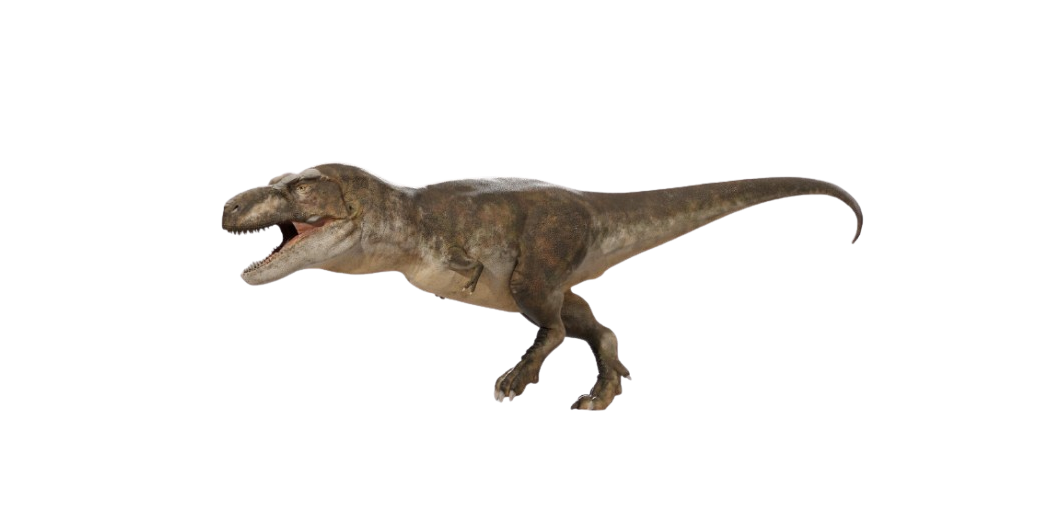
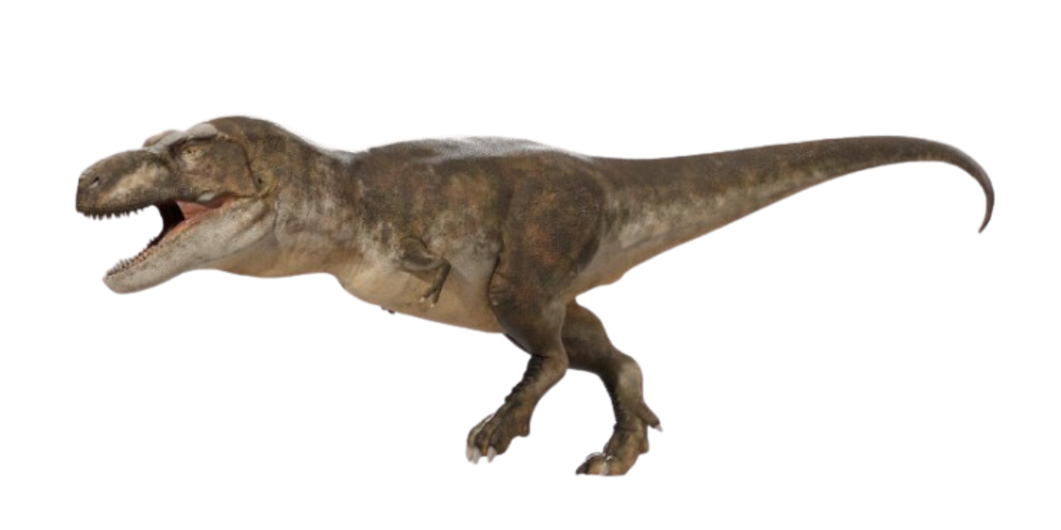
Updated gligching and text sizes

Changed region(s): [[0.0622, 0.2113, 0.9642, 0.9057], [0.8087, 0.3925, 0.8398, 0.4226]]

diff --git a/CLAUDE.md b/CLAUDE.md
@@ -1,0 +1,130 @@
+# CLAUDE.md
+
+This file provides guidance to Claude Code (claude.ai/code) when working with code in this repository.
+
+## What this is
+
+An interactive educational visualization ("UniversalZoom" / LifeZoom) that zooms continuously across ~17 orders of magnitude, from a hydrogen atom (~1e-10 m) to Earth (~1.3e7 m). Not a game — no player, no win state. Scroll wheel is the only input.
+
+`design_note.md` is the authoritative design document: it derives the zoom math, justifies the architecture, and lists the tuning constants. **Read it before changing any scaling/visibility logic.**
+
+## Commands
+
+Godot 4.5. No test suite, no CI, no build scripts. Godot is **not on PATH**, but a matching portable binary ships two levels up in the Gamedev folder (verified `4.5.stable.official`):
+
+```bash
+GODOT="/c/Users/seanm/Nextcloud2/Gamedev/Godot_v4.5-stable_win64.exe"
+
+# Run the project
+"$GODOT" --path .
+
+# Open in editor
+"$GODOT" -e --path .
+
+# Headless script-error check (fast sanity pass without launching a window)
+"$GODOT" --headless --path . --quit
+
+# Export (presets defined in export_presets.cfg)
+"$GODOT" --headless --path . --export-release "Web" ../export/index.html
+"$GODOT" --headless --path . --export-release "Windows Desktop" ../UniversalZoom.exe
+```
+
+A `Godot_v4.7-stable_win64.exe` sits alongside it — don't use it, the project declares `config/features=PackedStringArray("4.5", "Forward Plus")`.
+
+Both export targets write **outside** the project dir (`../export/`, `../UniversalZoom.exe`). Web export has `variant/thread_support=false`. A previous web build is already scattered across `Gamedev/GodotGames/` as loose `UniversalZoom.{html,js,wasm,pck,png}` files — those are stale output, not source.
+
+## Where this repo lives
+
+`Gamedev/` exists twice on the laptop under two different sync services, with **different** contents — this is a real tripwire, not a duplicate:
+
+| Tree | Sync | Holds |
+| :--- | :--- | :--- |
+| `C:\Users\seanm\Nextcloud2\Gamedev\` | Nextcloud | **LifeZoom (this project)**, plus its own project set |
+| `C:\Users\seanm\Proton Drive\seanminer\Other computers\SEANPC\GameDev\` | Proton Drive | the Gamedev `CLAUDE.md` learning log, plus older `universal_zoom` / `universal-zoom` attempts |
+
+Consequences worth knowing:
+
+- The Nextcloud tree has **no** `Gamedev/CLAUDE.md`, so the Gamedev domain learning log does *not* auto-load when working in LifeZoom. Durable Godot lessons learned here should be appended to the Proton Drive copy.
+- `universal_zoom` and `universal-zoom` in the Proton tree are earlier takes on this same idea. Check them before re-solving a scaling problem, but they are not this codebase.
+
+## Architecture
+
+### The core decision: sprites rescale, the camera does not
+
+`Camera2D` stays at zoom `(1,1)` permanently. Zooming is implemented by rescaling every `Sprite2D` each frame. This is deliberate — a naive camera zoom across 1e17 would need zoom factors from ~1e-14 to ~1e10 and lose precision in the 32-bit transform matrix. Do not "simplify" this into camera zoom.
+
+### Zoom lives in natural-log space
+
+`log_zoom` = `ln(metres_per_pixel)`. Everything derives from this one scalar:
+
+```
+metres_per_pixel = exp(log_zoom)
+screen_px        = real_size_m / metres_per_pixel
+scale_factor     = screen_px / texture_width_px
+```
+
+Larger `log_zoom` = zoomed **out**. Scroll wheel adjusts the target by ±0.25 (perceptually uniform steps), then `_process()` lerps `log_zoom_current` toward it.
+
+### Three files, one signal
+
+| File | Role |
+| :--- | :--- |
+| `ZoomManager.gd` (`Node`) | Owns zoom state, reads mouse wheel, lerps, emits `zoom_changed(log_zoom)` |
+| `ObjectManager.gd` (`Node2D`) | Loads `objects.json`, spawns sprites+labels, recomputes scale/visibility/position on every `zoom_changed` |
+| `UniversalObject.gd` (`Resource`) | Data-class schema mirroring a `objects.json` entry. **Currently unused at runtime** — the JSON is parsed into raw `Dictionary`s. |
+
+`Main.tscn` is the only real scene: `Main(Node2D)` → `ZoomManager`, `Camera2D`, `ObjectManager`, `CanvasLayer/DebugLabel`. `ObjectManager` finds `ZoomManager` as a sibling via `get_parent().get_node_or_null("ZoomManager")` and connects itself; `ZoomManager` knows nothing about its listeners. Keep it that way — add new zoom-reactive systems as additional subscribers, not by coupling into `ObjectManager`.
+
+`ObjectManager.tscn` is an empty leftover template, not used by `Main.tscn`.
+
+### Data-driven object roster
+
+`objects.json` is a flat array of ~45 entries, loaded at runtime from `res://objects.json`. Adding an object = adding a JSON entry + a PNG in `assets/` (59 PNGs currently). No GDScript change needed.
+
+```json
+{
+  "id": "hydrogen_atom",
+  "display_name": "Hydrogen Atom",   // "\n" is honored — labels wrap
+  "real_size_m": 1e-10,              // real-world diameter, metres
+  "image_path": "res://assets/hydrogen.png",
+  "pivot_normalized": [0.5, 0.5],    // converted to Sprite2D.offset
+  "position_shift": [0, 1400],       // manual per-object label nudge
+  "notes": "..."                     // documentation only
+}
+```
+
+Entries are ordered smallest → largest, and **order is load-bearing**: index 0 is pinned at the origin and every other object is placed on a ring around it.
+
+### Precomputed thresholds
+
+`_compute_thresholds()` runs at `_ready()` and again on viewport `size_changed`. Per object it caches:
+
+- `nominal_log_zoom[i]` — object fills `NOMINAL_RATIO` (0.8) of viewport width
+- `min_log_zoom_values[i]` — beyond this, object is under `MIN_PX` (2 px) → hidden
+- `max_log_zoom_values[i]` — below this, object exceeds `MAX_DISPLAY_MULTIPLIER` (10×) nominal → hidden
+
+It then unions these into global bounds and pushes them into `ZoomManager.set_zoom_bounds()`, so the user can never scroll to a state where nothing is visible. Anything that changes viewport size or the object roster must re-run this.
+
+`INITIAL_ZOOM = -29.0` is hardcoded in `ObjectManager` and pushed via `set_initial_zoom()` — that's the atomic end of the range.
+
+### Label layout
+
+Labels are children of their sprite (so they inherit sprite transform). Layout is a hand-tuned orbital arrangement: base angle `-PI/2`, `+1.0` rad per object (`+1.5` when adjacent objects are within `CLOSE_RATIO_THRESHOLD` = 3× in size), radius `1.1 * (radius0 + radius_i)`. Combined with the per-object `position_shift` and a hardcoded `Vector2(-600, -1000)` base offset, this is empirical, not principled — expect to re-tune by eye after roster changes.
+
+## Known dead / broken code in `ObjectManager.gd`
+
+Several paths are inert. Don't mistake them for working features, and don't "fix" them silently — confirm intent first.
+
+- **Line 331** — `var radius0_px: float = radius_px_arr.size() > 0 if radius_px_arr[0] else 0.0` is a mis-ordered GDScript ternary (`value if cond else other`). It assigns the *array length*, not `radius_px_arr[0]`. All ring distances are consequently wrong.
+- **Line 67** — fallback `get_tree().get_root().find_node(...)` uses a Godot 3 API removed in Godot 4 (it's `find_child` now). Only reached if `ZoomManager` isn't a sibling, in which case it errors instead of degrading.
+- **Alpha fading is computed but never applied** (lines 267–280 commented out). Objects pop in/out at the 2 px and 10× thresholds rather than fading.
+- **`nearest_obj_idx` is never assigned** (lines 284–287 commented out), so the debug label always reports "None".
+- **Line 358** — `"{0:.3e}".format(...)` uses Python-style format specs that GDScript's `String.format()` does not support; they render literally.
+- `_load_objects()` calls `.resize()` on the three threshold arrays inside the per-object loop. Harmless but redundant.
+- `ObjectManager.bak` and `Main.tscn29419340.tmp` are stray untracked artifacts, not source.
+
+## Conventions
+
+- Tabs for indentation (matches the existing GDScript and the JSON, which is also tab-indented).
+- `.gitattributes` forces `eol=lf` on all text files.
+- Scene/script UIDs (`uid://...`) are tracked in `.uid` files and referenced in `Main.tscn`. If you hand-write a `.tscn`, the `ext_resource` `uid` must match the script's `.uid` file or the reference breaks.
